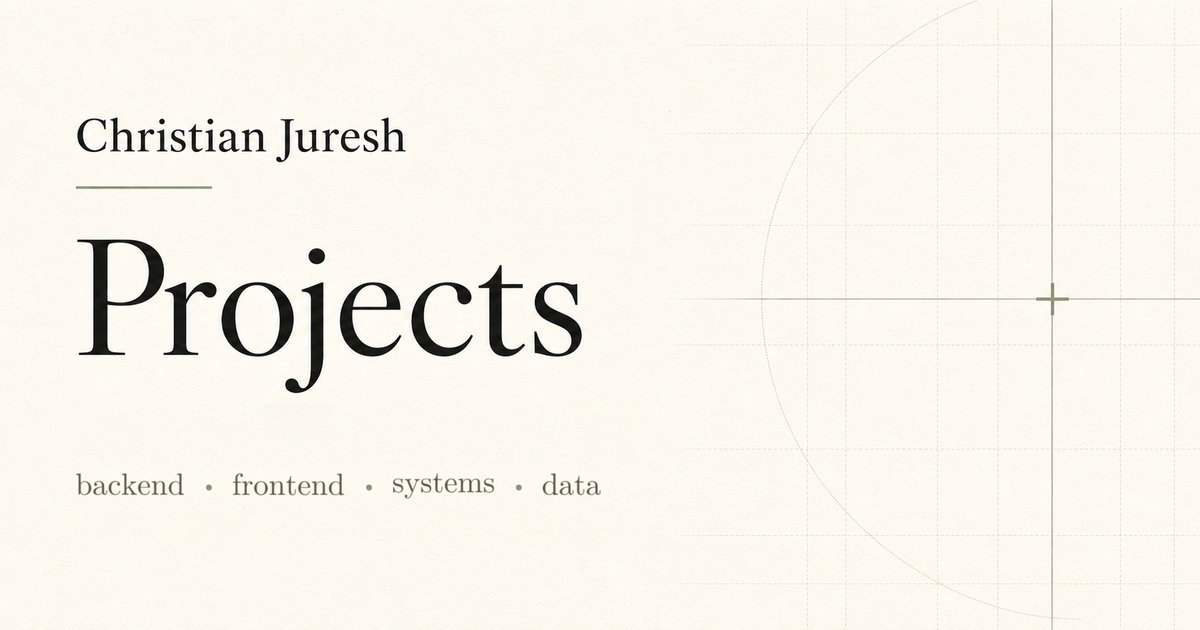
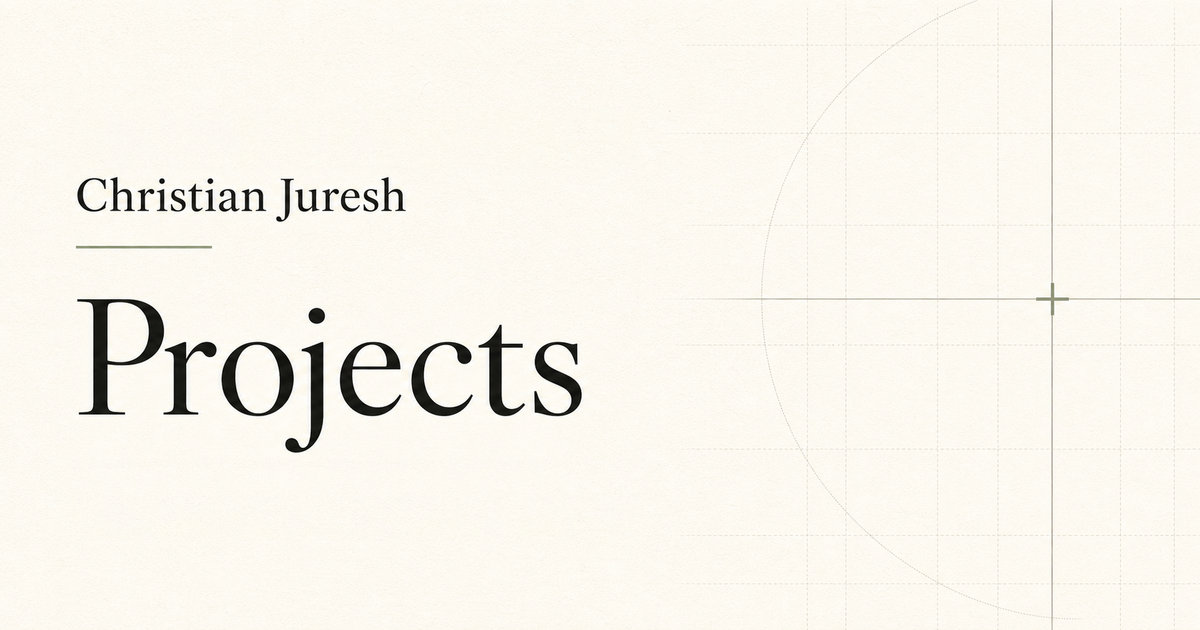
Drop the supporting line from the social card; recentre the title
The card is now the name, the rule and "Projects". The discipline line goes
for two reasons. It repeated og:description, which renders directly beside
the image in a social card, so the same four words appeared twice in one
view — a duplication that predated the rewording and that I carried forward
rather than caught. And "backend, frontend" names the least distinguishing
things about the work, on a page that otherwise earns attention with 2,336
restaurants from 296 guides and disks that must not be woken.

og:description keeps the disciplines in prose. With the image no longer
listing them, the two complement instead of echo.

Removing the line left the block ending at y566 with 343px of empty paper
below against 169px above, which read as top-heavy. BLOCK_SHIFT moves the
name, rule and "Projects" down 86px, which does two things: it centres the
block (255 above, 257 below) and it drops the cap-top of "Projects" from
y345 to y431, onto the horizontal rule through the crosshair at y430-431.
The title now sits on the decoration's own axis instead of floating against
it. 0 and 111 were rendered and compared; 111 sat visibly low.

The block moves as pixels, not re-set type. Only the supporting line's face
was ever calibrated — "Projects" is display type whose size and tracking
were never measured, so moving the raster is exact where re-typesetting
would be a guess. Source and destination sit on the same flat paper, and
[…]

diff --git a/projects/index.html b/projects/index.html
@@ -16,7 +16,7 @@
   <meta property="og:image" content="https://chrisj.uk/projects/og.jpg">
   <meta property="og:image:width" content="1200">
   <meta property="og:image:height" content="630">
-  <meta property="og:image:alt" content="Christian Juresh Projects — backend, frontend, systems, data.">
+  <meta property="og:image:alt" content="Christian Juresh — Projects">
   <meta name="twitter:card" content="summary_large_image">
   <meta name="twitter:image" content="https://chrisj.uk/projects/og.jpg">
   <link rel="canonical" href="https://chrisj.uk/projects">

diff --git a/design/og/build-og.py b/design/og/build-og.py
@@ -69,9 +69,16 @@ WOFF2 = os.path.join(REPO, "fonts", "lmroman10-regular.woff2")
 OUTPUT = os.path.join(REPO, "projects", "og.jpg")
 
 # ---------------------------------------------------------------- config ----
-# The bottom line. Words only — separators are added between them automatically
-# and are lifted from the plate rather than typeset (see DOT_SRC).
-LINE_WORDS = ["backend", "frontend", "systems", "data"]
+# The supporting line under "Projects". Words only — separators are inserted
+# between them automatically and are lifted from the plate, not typeset (DOT_SRC).
+#
+# Currently empty: the card is the name, the rule and "Projects", nothing else.
+# The discipline list it used to carry ("product · platform · systems · data",
+# later "backend · frontend · systems · data") said the same thing as
+# og:description, which renders directly beside the image in a social card, and
+# named the least distinguishing things about the work. Set this to a list of
+# words to bring a line back — everything below still works.
+LINE_WORDS = []
 
 SIZE_PT = 44          # matches the plate's word widths to within 4px
 LINE_LEFT = 110       # left margin shared with the name, rule and "Projects"
@@ -101,6 +108,23 @@ DOT_BASELINE_OFFSET = 16   # dots sat 16px below the line's ink top on the plate
 # on flat cream, exactly what chroma subsampling smears — it costs ~8KB.
 OUT_SIZE = (1200, 630)
 JPEG_QUALITY = 85
+
+# The name, the rule and "Projects", as (x0, x1, y0, y1), plus how far down to
+# move them. Removing the supporting line left the block ending at y566 with
+# 343px of empty paper under it against 169px above — visibly top-heavy.
+#
+# 86 does two things at once. It centres the block (255px above, 257px below),
+# and it drops the cap-top of "Projects" from y345 to y431, onto the horizontal
+# rule that runs through the crosshair at y430-431. The title now sits on the
+# decoration's own axis rather than floating against it.
+#
+# Set BLOCK_SHIFT to 0 to leave the block where the plate has it. If you restore
+# a supporting line via LINE_WORDS, revisit this — the block gets taller and
+# needs less shift, and LINE_TOP is measured in unshifted plate coordinates.
+#
+# x1 is 925 because the decoration reaches as far left as x932 near the top edge.
+BLOCK = (100, 925, 155, 580)
+BLOCK_SHIFT = 86
 
 # Clean strip the paper grain is sampled from, to refill erased areas.
 GRAIN_SRC = (105, 925, 788, 888)   # x0, x1, y0, y1
@@ -171,6 +195,39 @@ def erase(canvas: np.ndarray, grain: np.ndarray, x0: int, x1: int, y0: int, y1: 
     canvas[y0:y1, x0:x1] = np.clip(base + tile, 0, 255)
 
 
+def shift_block(canvas: np.ndarray, grain: np.ndarray, dy: int) -> None:
+    """Move the name/rule/"Projects" block down by dy, wiping where it was.
+
+    The block is moved as pixels rather than re-set as type: only the small
+    supporting line's typeface was ever identified, and "Projects" is display
+    type whose size and tracking were never calibrated. Moving the raster is
+    exact where re-typesetting would be a guess.
+
+    Both source and destination sit on the same flat paper, so the joins carry
+    no tonal step; the edges are feathered anyway to keep the grain continuous.
+    """
+    if dy == 0:
+        return
+    x0, x1, y0, y1 = BLOCK
+    block = canvas[y0:y1, x0:x1].copy()
+    erase(canvas, grain, x0, x1, y0, y1)
+
+    h, w = block.shape[:2]
+    feather = np.ones((h, w), np.float32)
+    for i in range(4):
+        f = i / 4.0
+        feather[i, :] = np.minimum(feather[i, :], f)
+        feather[h - 1 - i, :] = np.minimum(feather[h - 1 - i, :], f)
+        feather[:, i] = np.minimum(feather[:, i], f)
+        feather[:, w - 1 - i] = np.minimum(feather[:, w - 1 - i], f)
+
+    dst = canvas[y0 + dy:y1 + dy, x0:x1]
+    a = feather[..., None]
+    canvas[y0 + dy:y1 + dy, x0:x1] = dst * (1 - a) + block * a
+    print(f"  moved the title block down {dy}px "
+          f"(top margin {y0 + dy + 14}, bottom margin {909 - (566 + dy)})")
+
+
 # ------------------------------------------------------------------ type ----
 def word_mask(word: str, font: ImageFont.FreeTypeFont) -> np.ndarray:
     """Coverage mask for one word: supersampled, box-downsampled, then softened."""
@@ -215,7 +272,16 @@ def compose(canvas: np.ndarray, mask: np.ndarray, colour, x: int, y: int) -> Non
 
 
 def draw_line(canvas: np.ndarray, plate: np.ndarray, font: ImageFont.FreeTypeFont) -> None:
-    """Set LINE_WORDS with lifted separators, left-aligned at LINE_LEFT."""
+    """Set LINE_WORDS with lifted separators, left-aligned at LINE_LEFT.
+
+    An empty LINE_WORDS is the current state and not an error: the card is just
+    the name, the rule and "Projects". The erase still runs, so both retired
+    text bands go back to paper.
+    """
+    if not LINE_WORDS:
+        print("  no supporting line (LINE_WORDS is empty)")
+        return
+
     masks = {w: word_mask(w, font) for w in LINE_WORDS}
     bounds = {w: ink_bounds(masks[w]) for w in LINE_WORDS}
     dot_a, dot_c = dot_matte(plate)
@@ -262,7 +328,7 @@ def verify(canvas: np.ndarray, plate: np.ndarray, font: ImageFont.FreeTypeFont) 
     two rows to agree closely — see CALIBRATION in the module docstring.
     """
     if "systems" not in LINE_WORDS:
-        print("  (no word shared with the plate — weight check skipped)")
+        print("  (no word shared with the plate — type weight check not applicable)")
         return
     bg = 248.0
     ref = luma(plate[720:776, 557:702])
@@ -290,6 +356,14 @@ def main() -> int:
             print(f"error: missing {what}: {path}", file=sys.stderr)
             return 1
 
+    if LINE_WORDS and BLOCK_SHIFT:
+        print(f"error: LINE_WORDS is set and BLOCK_SHIFT is {BLOCK_SHIFT}.\n"
+              f"       LINE_TOP ({LINE_TOP}) is in unshifted plate coordinates, so the\n"
+              f"       line would be placed relative to where the title used to be.\n"
+              f"       Either set BLOCK_SHIFT = 0, or add {BLOCK_SHIFT} to LINE_TOP and\n"
+              f"       re-check the spacing under \"Projects\".", file=sys.stderr)
+        return 1
+
     plate = np.asarray(Image.open(SOURCE).convert("RGB")).astype(np.float32)
     print(f"plate {plate.shape[1]}x{plate.shape[0]} from {os.path.relpath(SOURCE, REPO)}")
 
@@ -298,6 +372,7 @@ def main() -> int:
     for x0, x1, y0, y1 in ERASE_BANDS:
         erase(canvas, grain, x0, x1, y0, y1)
     print(f"  erased {len(ERASE_BANDS)} band(s)")
+    shift_block(canvas, grain, BLOCK_SHIFT)
 
     with tempfile.TemporaryDirectory() as td:
         font = load_render_font(td)

diff --git a/design/og/README.md b/design/og/README.md
@@ -25,22 +25,46 @@ so the 1.9 MB plate costs nothing at the edge. It also costs nothing in the repo
 it is the same blob as the pre-JPEG `projects/og.png`, already in history at
 `9e149ea`, so git stores one copy.
 
+## What the card says now
+
+The name, the rule, and "Projects". Nothing else.
+
+It used to carry a supporting line — "product · platform · systems · data",
+briefly "backend · frontend · systems · data". That went for two reasons. It
+repeated `og:description`, which renders right beside the image in a social
+card, so the same four words appeared twice in one view. And it named the least
+distinguishing things about the work, on a page that otherwise earns attention
+through specifics.
+
+`og:description` still carries the disciplines in prose. With the image no
+longer listing them there is nothing duplicated, so the two now complement
+rather than echo.
+
 ## Editing
 
 Everything tunable is in the config block at the top of `build-og.py`.
 
-To change the discipline line, edit `LINE_WORDS`. Separators are inserted
-between words automatically — don't put them in the list. After changing text,
-**update `og:image:alt` in `projects/index.html`** so the alt text still
-describes the picture.
+**To bring a supporting line back**, set `LINE_WORDS` to a list of words.
+Separators are inserted automatically — don't put them in the list. The build
+prints the line's extent and warns if it would run into the arc and grid at
+x991; if it does, shorten the line or reduce `WORD_GAP`.
 
-The build prints the line's extent and warns if it would collide with the arc
-and grid decoration at x991. If it does, shorten the line or reduce `WORD_GAP`.
+You will also need to deal with `BLOCK_SHIFT` (see below) — the build refuses
+to run with both set, and tells you what to change. Then **update
+`og:image:alt` in `projects/index.html`** so the alt text still describes the
+picture.
 
-To move the line vertically, change `LINE_TOP`. It currently sits at 683, which
-puts a 117px gap below "Projects" against a 184px bottom margin — the line reads
-as part of the title block. Placing it lower leaves a gap wider than the bottom
-margin, which reads as a hole.
+**`BLOCK_SHIFT` moves the name, rule and "Projects" down** by 86px from where
+the plate has them. Without a supporting line the block ended at y566 with
+343px of empty paper below it against 169px above, which read as top-heavy.
+86 centres it (255 above, 257 below) and drops the cap-top of "Projects" onto
+the horizontal rule through the crosshair at y430-431, so the title sits on the
+decoration's own axis. Set it to 0 to leave the block where the plate has it.
+
+The block is moved as pixels, not re-set as type. Only the small supporting
+line's face was ever calibrated; "Projects" is display type whose size and
+tracking were never measured, so moving the raster is exact where
+re-typesetting would be a guess.
 
 ## What was determined empirically
 
@@ -83,17 +107,22 @@ upper band starts at y582 because "Projects" has a `j` descender reaching y566.
 
 ## Checking your work
 
-`verify()` runs on every build and prints the ink profile of a word that appears
-both on the plate and in the re-set line, currently "systems":
+`verify()` compares the ink profile of a word that appears both on the plate and
+in a re-set line. It only has something to compare when `LINE_WORDS` contains
+"systems", so with the line dropped it says so and skips. When it does run it
+prints two rows that should stay close — this is what it looked like with the
+discipline line in place:
 
 ```
 plate  systems: mass   139843  px<230  1416  mean-ink  152.2  min 84
 re-set systems: mass   140069  px<230  1397  mean-ink  152.3  min 87
 ```
 
-Those two rows should stay close. They are what keeps re-set type from reading
-heavier or lighter than the original — `GLYPH_BLUR` exists solely to match the
-plate's antialiasing, which is softer than a clean downsample. If you change
-`SIZE_PT`, `INK` or `GLYPH_BLUR`, watch them. If you drop "systems" from
-`LINE_WORDS` the check can't run and says so; the plate's own line is still
-there to compare against by eye.
+That is what keeps re-set type from reading heavier or lighter than the plate.
+`GLYPH_BLUR` exists solely to match the plate's antialiasing, which is softer
+than a clean downsample. If you restore a line and change `SIZE_PT`, `INK` or
+`GLYPH_BLUR`, watch those rows.
+
+Worth knowing if you re-set type from scratch: matching glyph *widths* is not
+enough to identify a face, and ink coverage is what separated Latin Modern from
+the rest. The finding is recorded above precisely so nobody has to redo it.
